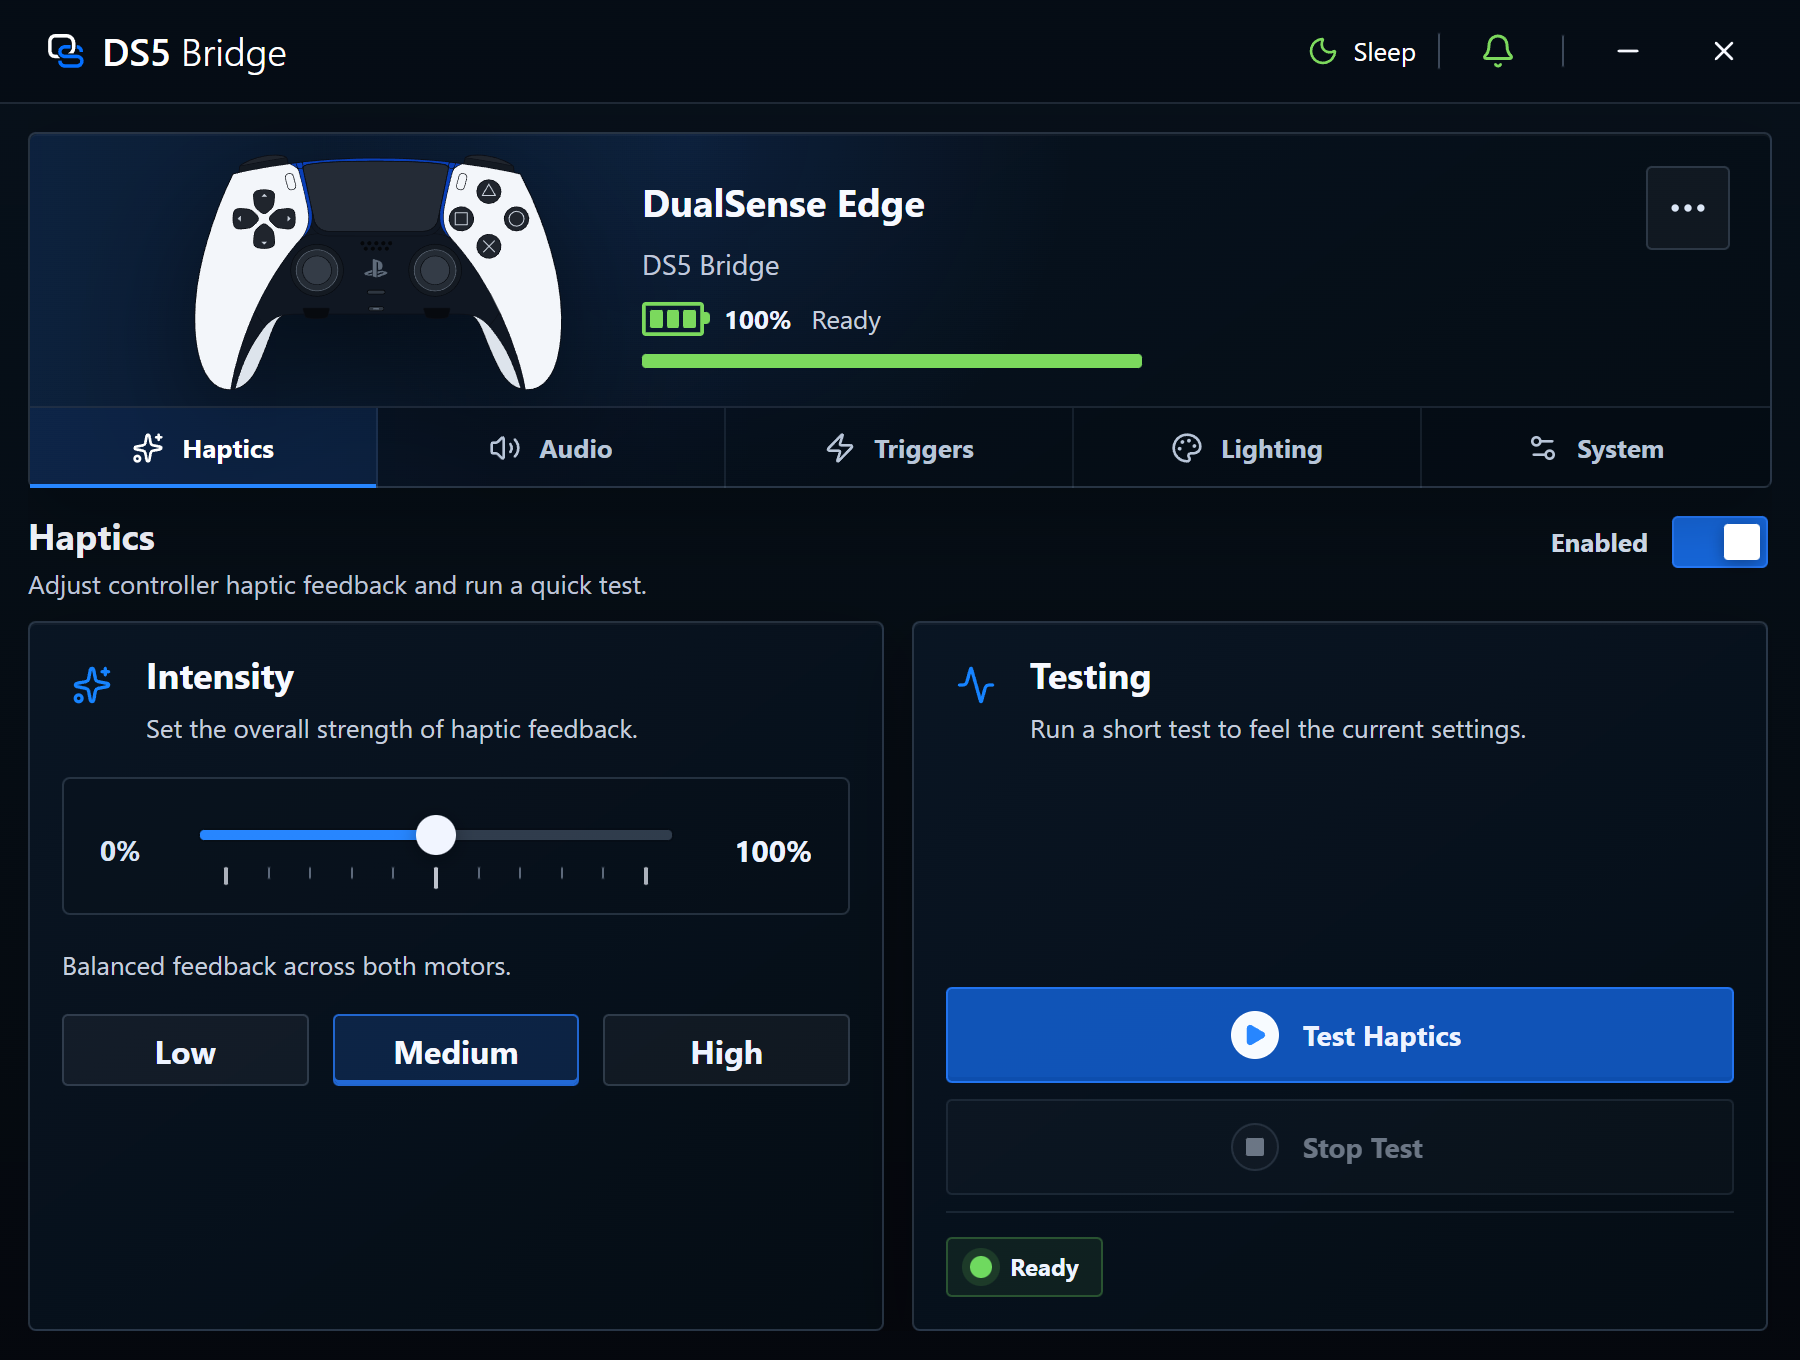
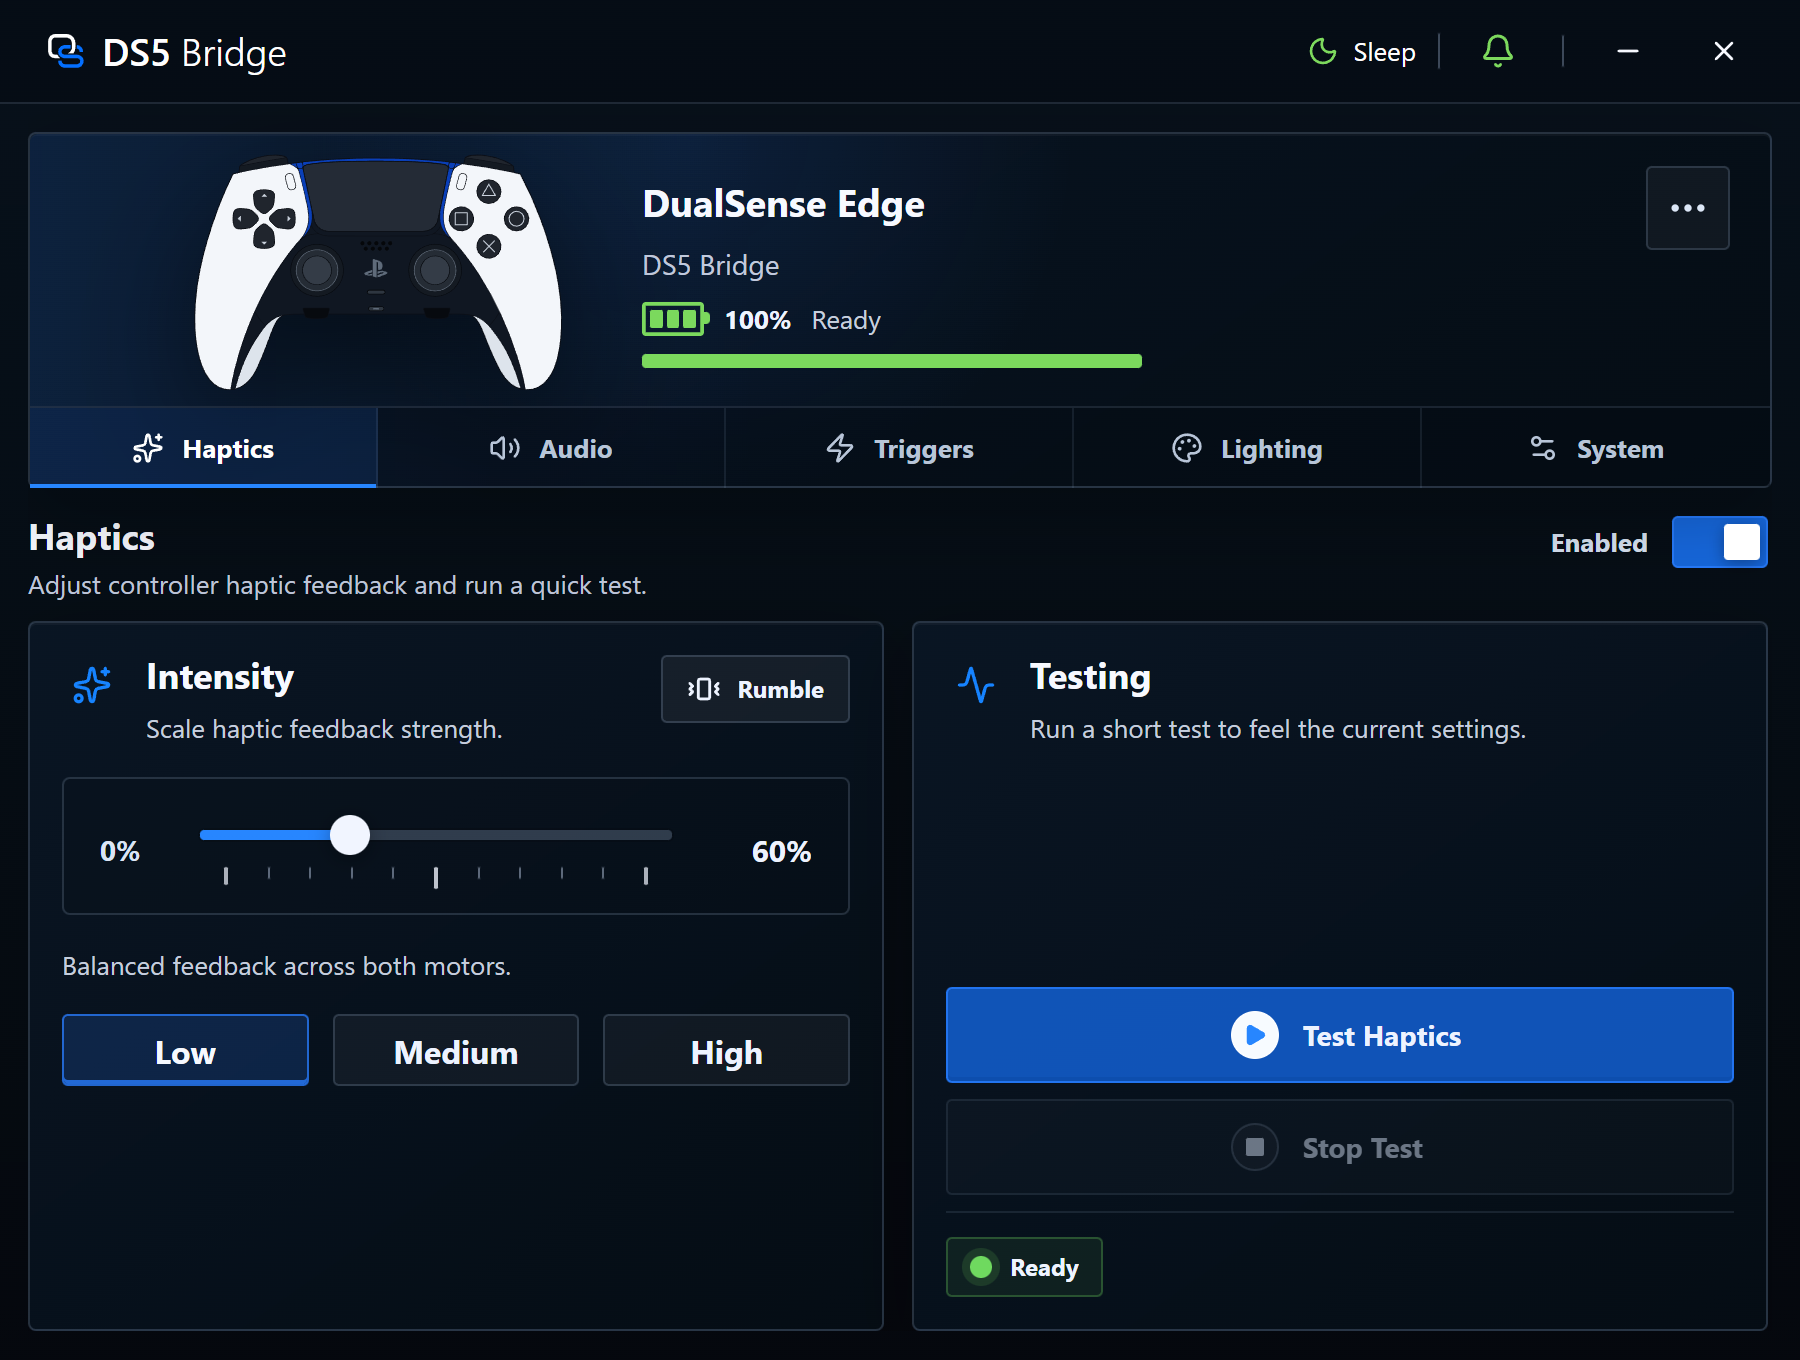
docs: update haptics screenshot and wording

diff --git a/README.md b/README.md
@@ -28,7 +28,7 @@ over Bluetooth.
 
 ## What The App Can Do
 
-- Adjust haptics strength.
+- Adjust haptics and game rumble strength.
 - Set controller speaker volume and play a quick test tone.
 - Preview, soften, or disable adaptive trigger effects.
 - Choose lightbar color, brightness, and player LEDs.
@@ -48,10 +48,10 @@ game-facing controller interface alone.
 
 ### Haptics
 
-Set HD haptics strength or run a quick feedback test.
+Adjust HD haptics, scale game rumble, or run quick feedback tests.
 
 <p align="center">
-  <img src="assets/readme/app-haptics.png" width="680" alt="Haptics controls in the DS5 Bridge companion app">
+  <img src="assets/readme/app-haptics.png" width="680" alt="Haptics and rumble controls in the DS5 Bridge companion app">
 </p>
 
 ### Audio